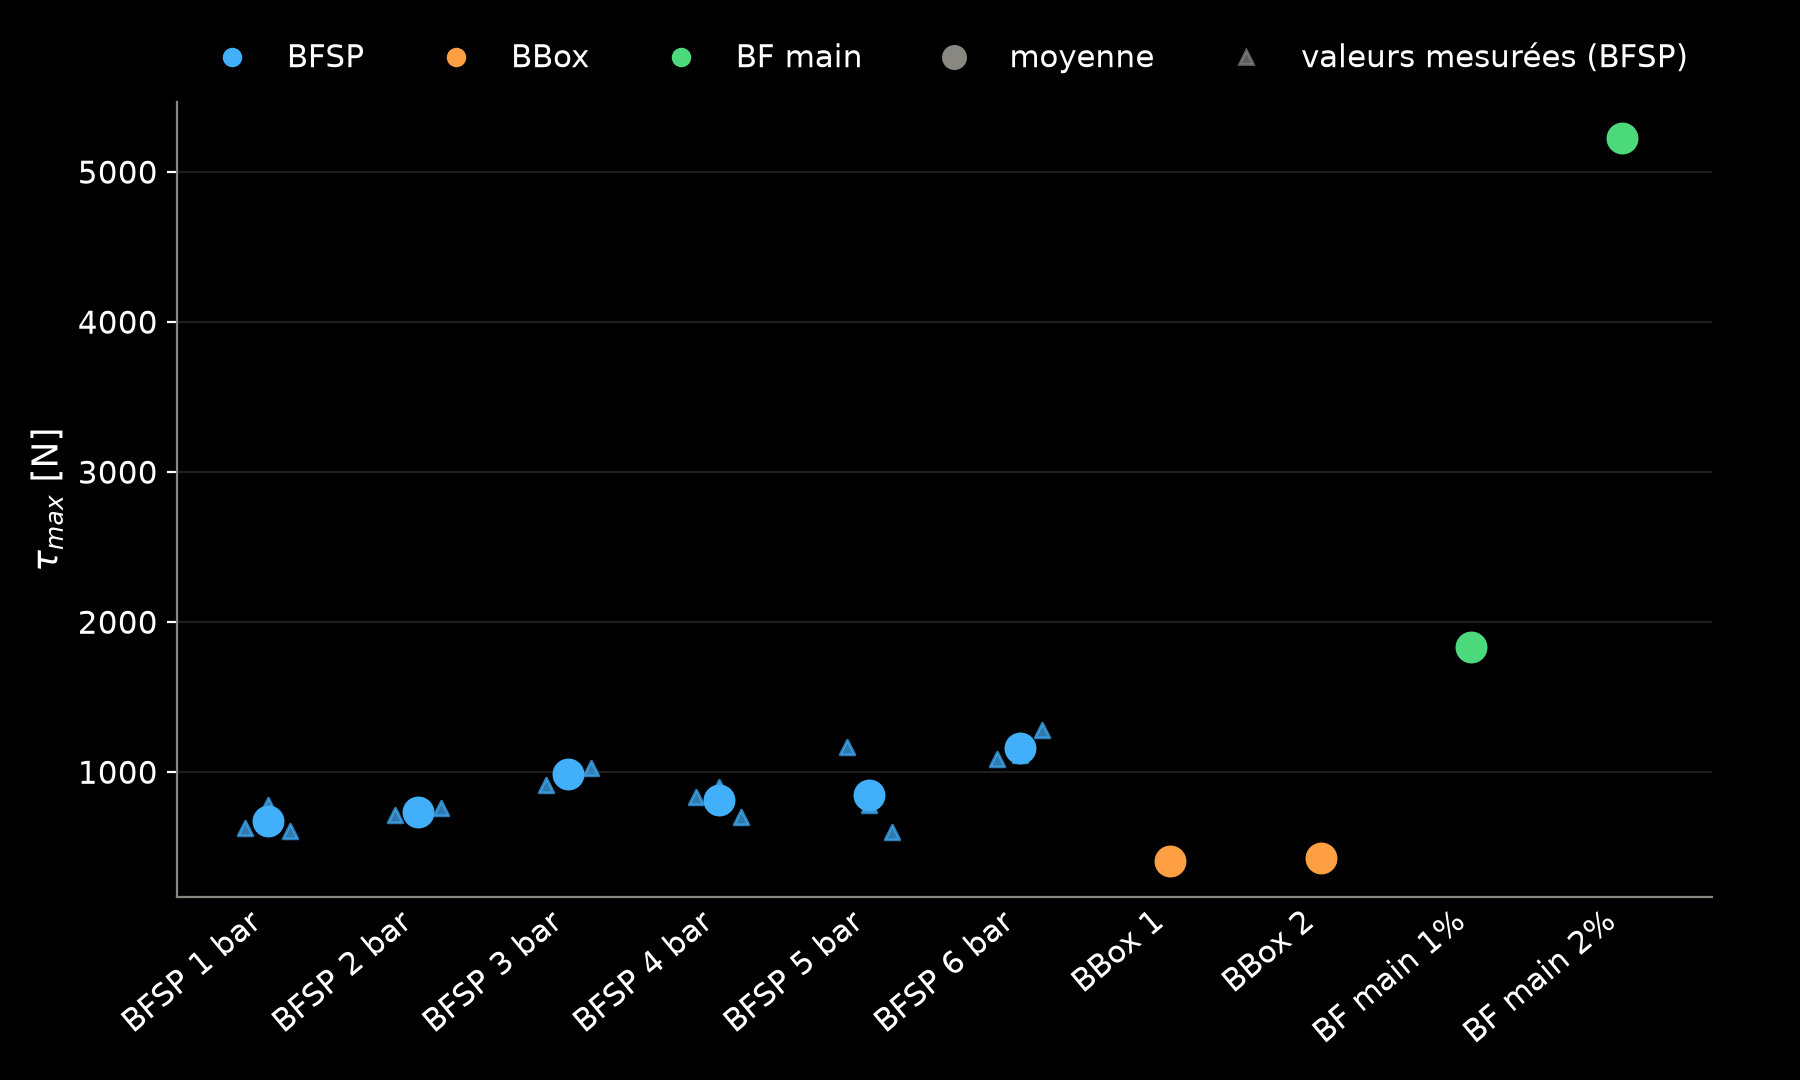
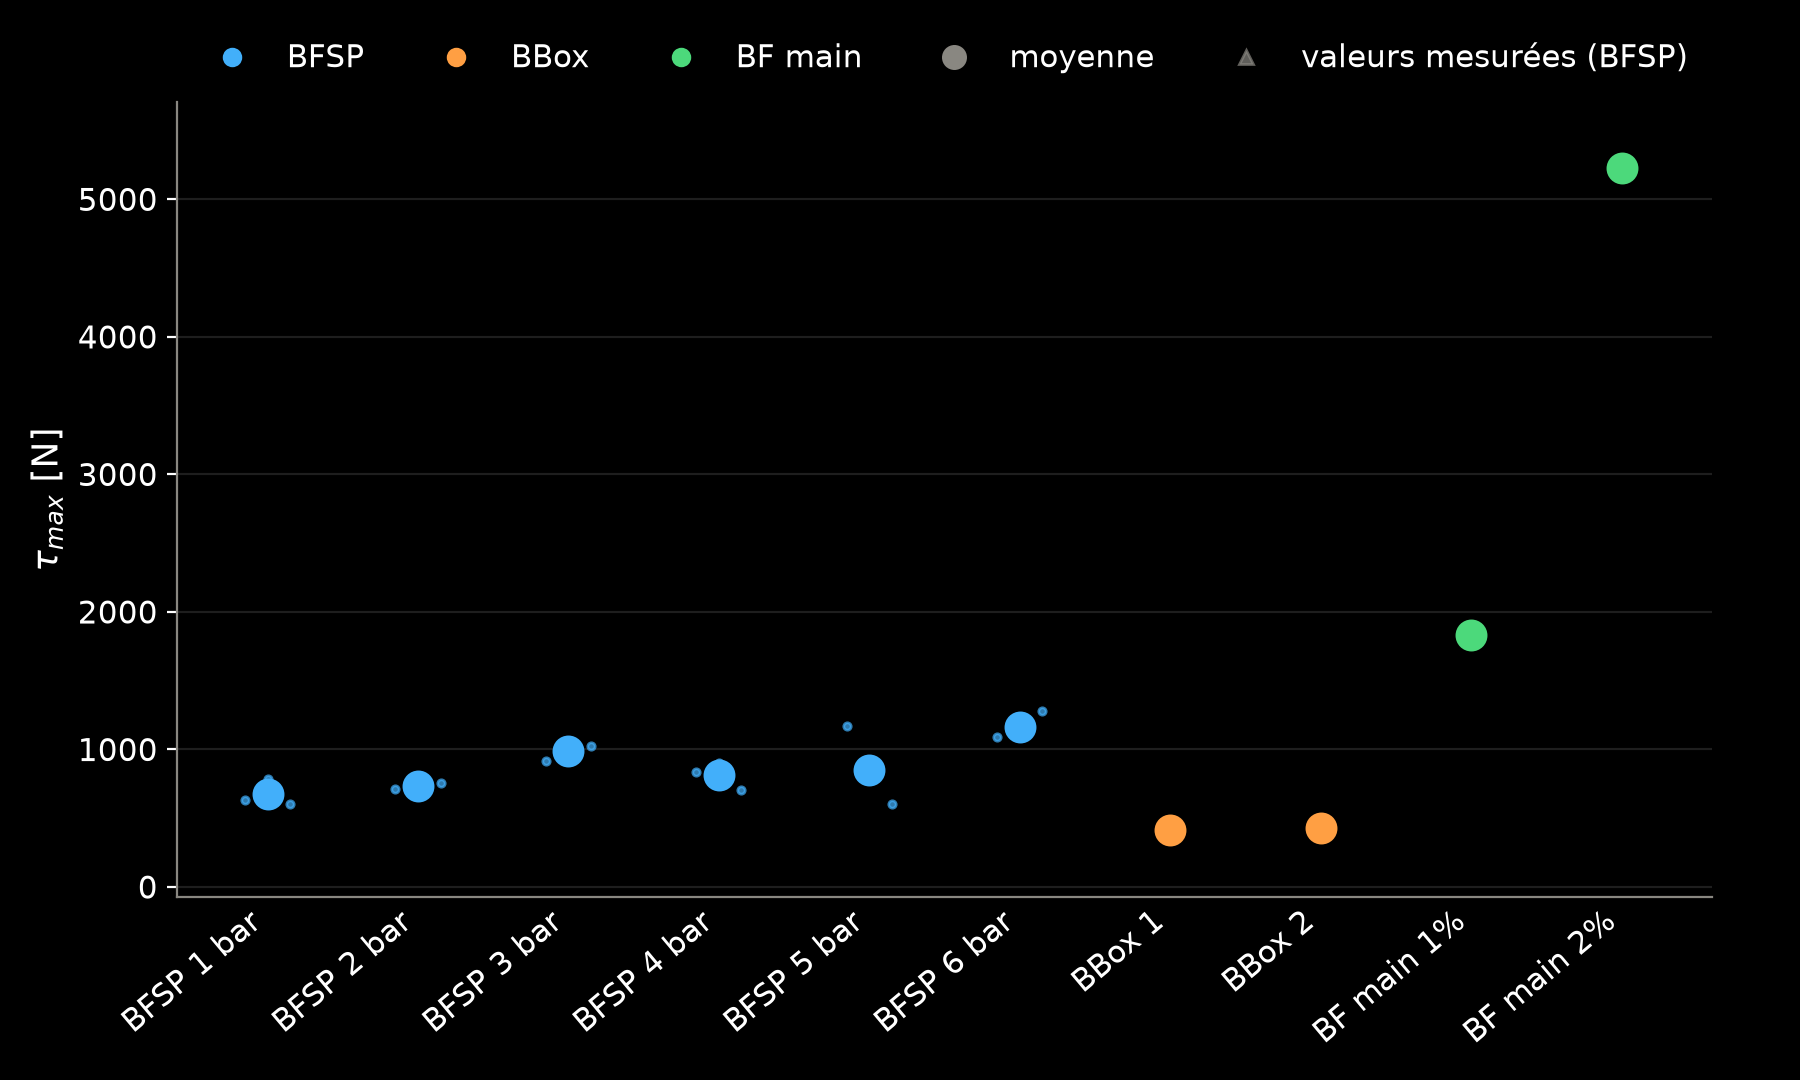
Raw BFSP values as F/M/D letters

diff --git a/scripts/plot_scatter.py b/scripts/plot_scatter.py
@@ -61,7 +61,7 @@ for q, (table_id, label) in QUANTITIES.items():
             ax.scatter(x, v, s=110, color=col, zorder=3)
             if name.startswith("BFSP"):
                 vals = raw[q][int(name.split()[1])]
-                ax.scatter([x - 0.15, x, x + 0.15], vals, s=28, marker="^", color=col,
+                ax.scatter([x - 0.15, x, x + 0.15], vals, s=28, marker=".", color=col,
                            alpha=0.7, zorder=4)
         ax.set_xticks(range(len(pts)), [n for n, _ in pts], rotation=40, ha="right",
                       color=c["fg"], fontsize=11)
@@ -75,6 +75,7 @@ for q, (table_id, label) in QUANTITIES.items():
         for side in ("left", "bottom"):
             ax.spines[side].set_color(c["muted"])
         ax.set_xlim(-0.6, len(pts) - 0.4)
+        ax.margins(y=0.1)
         handles = [Line2D([], [], marker="o", linestyle="", color=col, label=g)
                    for g, col in COLORS.items()]
         handles += [Line2D([], [], marker="o", linestyle="", color=c["muted"], markersize=8,
